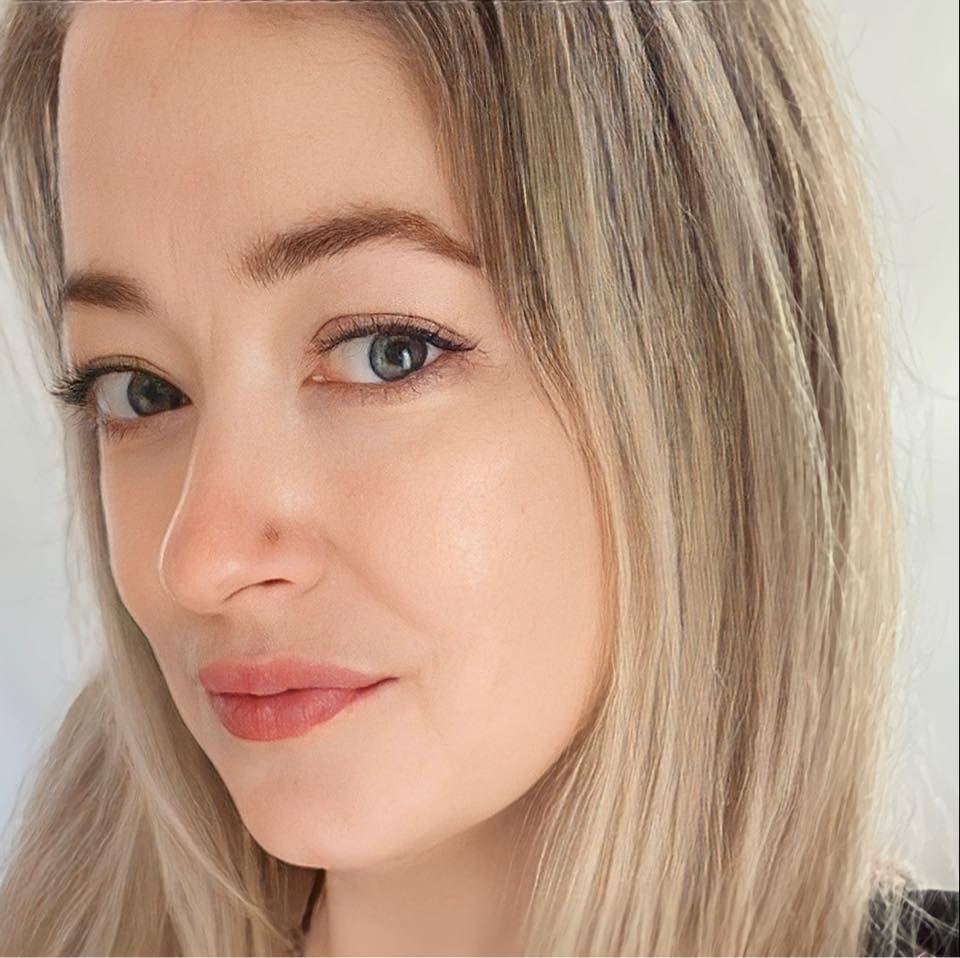
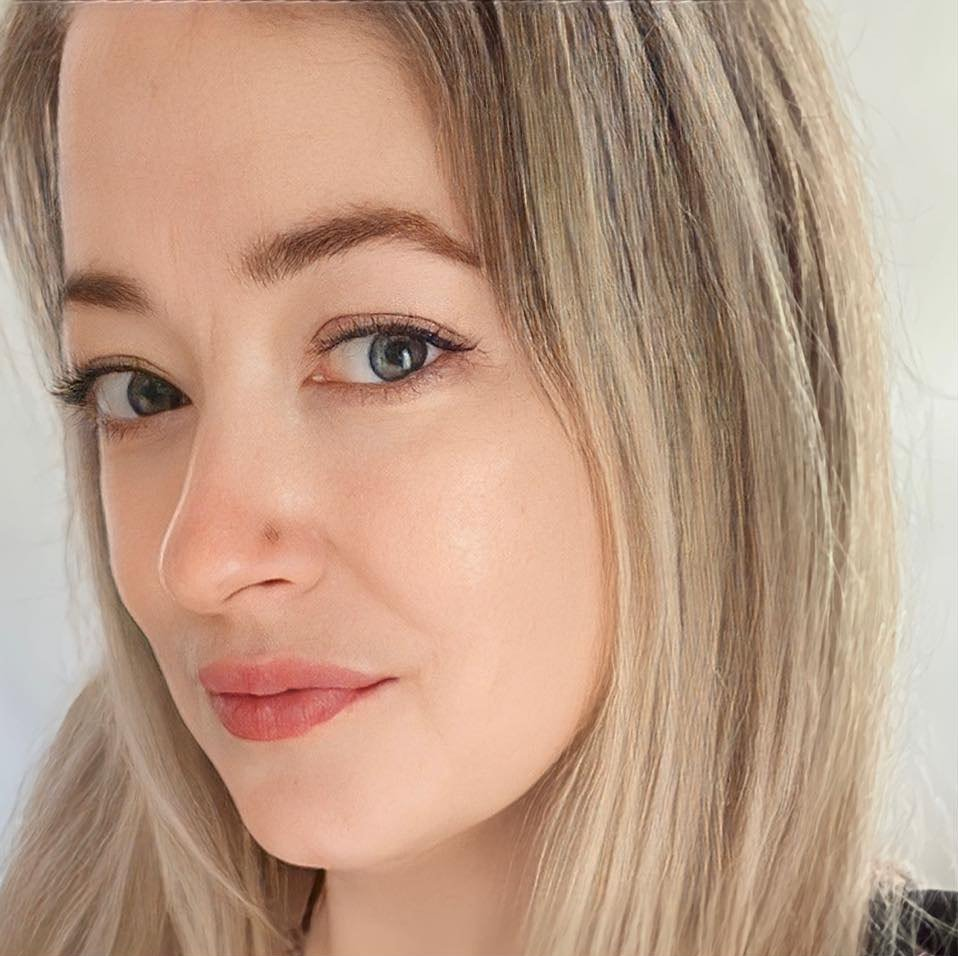
Updated form section. And edited image to remove artifacts.

diff --git a/index.html b/index.html
@@ -35,7 +35,7 @@
 
     <style>
         body { background-color: #F9F9F9; color: #333333; overflow-x: hidden; scroll-behavior: smooth; }
-        .hero-overlay { background: rgba(0, 0, 0, 0.3); }
+        .hero-overlay { background: rgba(0, 0, 0, 0.4); }
         .btn-transition { transition: all 0.3s ease-in-out; }
         .profile-photo { filter: grayscale(100%); transition: filter 0.5s ease; }
         .profile-photo:hover { filter: grayscale(0%); }
@@ -46,6 +46,9 @@
             background-color: #F9F9F9;
             color: #004B49;
         }
+        
+        /* Smooth scrolling adjustment for fixed nav */
+        section { scroll-margin-top: 80px; }
     </style>
 </head>
 <body x-data="{ mobileMenuOpen: false, disclosureOpen: false, waiverAccepted: false }">
@@ -58,12 +61,12 @@
                     <span class="font-serif text-2xl tracking-tighter text-oceanteal font-bold uppercase">And She Awoke</span>
                 </div>
                 
-                <div class="hidden md:flex space-x-8 items-center font-sans text-xs tracking-widest uppercase font-semibold">
-                    <a href="#philosophy" class="hover:text-oceanteal transition">Philosophy</a>
-                    <a href="#science" class="hover:text-oceanteal transition">Science</a>
-                    <a href="#about" class="hover:text-oceanteal transition">About</a>
-                    <a href="#faq" class="hover:text-oceanteal transition">FAQ</a>
-                    <a href="#exchange" class="bg-oceanteal text-white px-6 py-3 btn-transition hover:bg-black uppercase tracking-widest">Initiate</a>
+                <div class="hidden md:flex space-x-8 items-center font-sans text-[10px] tracking-[0.2em] uppercase font-bold">
+                    <a href="#philosophy" class="hover:text-oceanteal transition duration-300">Philosophy</a>
+                    <a href="#science" class="hover:text-oceanteal transition duration-300">Science</a>
+                    <a href="#about" class="hover:text-oceanteal transition duration-300">About</a>
+                    <a href="#faq" class="hover:text-oceanteal transition duration-300">FAQ</a>
+                    <a href="#exchange" class="bg-oceanteal text-white px-6 py-3 btn-transition hover:bg-black uppercase">Initiate</a>
                 </div>
 
                 <div class="md:hidden">
@@ -75,7 +78,7 @@
             </div>
         </div>
 
-        <div x-show="mobileMenuOpen" x-transition class="md:hidden bg-saltwhite p-6 space-y-4 font-sans text-center border-t border-gray-100 shadow-xl">
+        <div x-show="mobileMenuOpen" x-transition x-cloak class="md:hidden bg-saltwhite p-6 space-y-4 font-sans text-[10px] tracking-[0.2em] uppercase font-bold text-center border-t border-gray-100 shadow-xl">
             <a href="#philosophy" @click="mobileMenuOpen = false" class="block py-2">Philosophy</a>
             <a href="#science" @click="mobileMenuOpen = false" class="block py-2">Science</a>
             <a href="#about" @click="mobileMenuOpen = false" class="block py-2">About</a>
@@ -84,7 +87,7 @@
         </div>
     </nav>
 
-    <!-- 1. Hero Section (Restored Beach Background) -->
+    <!-- 1. Hero Section -->
     <header class="relative h-screen flex items-center justify-center overflow-hidden">
         <div class="absolute inset-0 z-0">
             <img src="https://images.unsplash.com/photo-1505118380757-91f5f5632de0?auto=format&fit=crop&q=80&w=2000" alt="Newport Coast Horizon" class="w-full h-full object-cover">
@@ -92,23 +95,23 @@
         </div>
         
         <div class="relative z-10 text-center px-6 max-w-4xl">
-            <h1 class="font-serif text-5xl md:text-7xl text-white mb-6">Beyond Healing. <br><span class="italic">A Return to Balance.</span></h1>
+            <h1 class="font-serif text-5xl md:text-7xl text-white mb-6">Beyond Healing. <br><span class="italic font-light">A Return to Balance.</span></h1>
             <p class="font-sans text-lg md:text-xl text-white mb-10 font-light leading-relaxed">
                 Reconnective Healing is not a treatment. It is an invitation to interact with a spectrum of energy, light, and information that has always been yours.
             </p>
-            <a href="#exchange" class="inline-block bg-oceanteal text-white font-sans uppercase tracking-widest px-10 py-5 text-sm font-bold btn-transition hover:bg-white hover:text-oceanteal">
+            <a href="#exchange" class="inline-block bg-oceanteal text-white font-sans uppercase tracking-[0.2em] px-10 py-5 text-xs font-bold btn-transition hover:bg-white hover:text-oceanteal shadow-xl">
                 Initiate an Exchange
             </a>
         </div>
     </header>
 
     <!-- 2. Philosophy Section -->
-    <section id="philosophy" class="py-24 md:py-32 bg-saltwhite px-6 border-b border-gray-100">
+    <section id="philosophy" class="py-24 bg-saltwhite px-6 border-b border-gray-100">
         <div class="max-w-3xl mx-auto text-center">
-            <h2 class="font-serif text-3xl md:text-4xl mb-12 italic">"Healing is a choice. A remembering."</h2>
+            <h2 class="font-serif text-4xl md:text-5xl mb-12 italic text-oceanteal">"Healing is a choice. A remembering."</h2>
             <div class="font-sans text-lg leading-relaxed space-y-6 text-charcoal/80 font-light">
                 <p>We spend our lives searching for what is "broken," trying to fix what we think is lost. But the frequencies of Reconnective Healing suggest a different truth: You are already whole.</p>
-                <p>You have simply become disconnected from the grid of the universe. We step into the field and allow the frequencies to reorganize the body, the mind, and the spirit.</p>
+                <p>You have simply become disconnected from the grid of the universe. We step into the field and allow the frequencies to reorganize the body, the mind, and the spirit back to its natural resonance.</p>
             </div>
         </div>
     </section>
@@ -118,24 +121,24 @@
         <div class="max-w-7xl mx-auto">
             <div class="grid md:grid-cols-3 gap-12 text-center">
                 <div class="p-8 group">
-                    <div class="w-16 h-16 bg-oceanteal mx-auto mb-6 flex items-center justify-center btn-transition group-hover:rotate-12">
+                    <div class="w-16 h-16 bg-oceanteal mx-auto mb-6 flex items-center justify-center btn-transition group-hover:rotate-6">
                         <svg class="w-8 h-8 text-white" fill="none" stroke="currentColor" viewBox="0 0 24 24"><path d="M13 10V3L4 14h7v7l9-11h-7z" stroke-width="2" stroke-linecap="round" stroke-linejoin="round"/></svg>
                     </div>
-                    <h3 class="font-serif text-2xl mb-4 uppercase tracking-tighter">Energy</h3>
+                    <h3 class="font-serif text-2xl mb-4 uppercase tracking-tighter text-charcoal">Energy</h3>
                     <p class="font-sans text-sm text-charcoal/70 leading-relaxed font-light">The tangible vibration that sustains our physical form and binds us to the material world.</p>
                 </div>
                 <div class="p-8 group">
-                    <div class="w-16 h-16 bg-oceanteal mx-auto mb-6 flex items-center justify-center btn-transition group-hover:rotate-12">
+                    <div class="w-16 h-16 bg-oceanteal mx-auto mb-6 flex items-center justify-center btn-transition group-hover:rotate-6">
                         <svg class="w-8 h-8 text-white" fill="none" stroke="currentColor" viewBox="0 0 24 24"><path d="M12 3v1m0 16v1m9-9h-1M4 12H3m15.364-6.364l-.707.707M6.343 17.657l-.707.707m12.728 0l-.707-.707M6.343 6.343l-.707-.707" stroke-width="2" stroke-linecap="round" stroke-linejoin="round"/></svg>
                     </div>
-                    <h3 class="font-serif text-2xl mb-4 uppercase tracking-tighter">Light</h3>
+                    <h3 class="font-serif text-2xl mb-4 uppercase tracking-tighter text-charcoal">Light</h3>
                     <p class="font-sans text-sm text-charcoal/70 leading-relaxed font-light">The resonance and communication between our cells and the cosmic intelligence.</p>
                 </div>
                 <div class="p-8 group">
-                    <div class="w-16 h-16 bg-oceanteal mx-auto mb-6 flex items-center justify-center btn-transition group-hover:rotate-12">
+                    <div class="w-16 h-16 bg-oceanteal mx-auto mb-6 flex items-center justify-center btn-transition group-hover:rotate-6">
                         <svg class="w-8 h-8 text-white" fill="none" stroke="currentColor" viewBox="0 0 24 24"><path d="M9 12h6m-6 4h6m2 5H7a2 2 0 01-2-2V5a2 2 0 012-2h5.586a1 1 0 01.707.293l5.414 5.414a1 1 0 01.293.707V19a2 2 0 01-2 2z" stroke-width="2" stroke-linecap="round" stroke-linejoin="round"/></svg>
                     </div>
-                    <h3 class="font-serif text-2xl mb-4 uppercase tracking-tighter">Information</h3>
+                    <h3 class="font-serif text-2xl mb-4 uppercase tracking-tighter text-charcoal">Information</h3>
                     <p class="font-sans text-sm text-charcoal/70 leading-relaxed font-light">The intelligence that returns our complex systems back to their natural state of harmony.</p>
                 </div>
             </div>
@@ -145,21 +148,21 @@
     <!-- 4. Science Section -->
     <section id="science" class="py-24 bg-charcoal text-white px-6">
         <div class="max-w-4xl mx-auto text-center">
-            <h2 class="font-serif text-3xl md:text-4xl mb-12 italic text-sand">Observed by Science. Felt by the Soul.</h2>
-            <div class="font-sans text-lg leading-relaxed space-y-8 font-light text-gray-300 text-center">
+            <h2 class="font-serif text-4xl md:text-5xl mb-12 italic text-sand">Observed by Science. Felt by the Soul.</h2>
+            <div class="font-sans text-lg leading-relaxed space-y-8 font-light text-gray-300">
                 <p>This isn’t "faith" healing. It is the physics of the human biofield. Researchers from Stanford, Harvard, and the University of Arizona have documented the effects of these frequencies.</p>
                 <div class="grid md:grid-cols-3 gap-8 pt-8 text-left">
                     <div class="border-l border-oceanteal pl-4">
-                        <span class="block font-bold text-white mb-2 uppercase text-xs tracking-widest">Dr. William Tiller</span>
-                        <p class="text-[10px] leading-relaxed uppercase">Stanford Professor Emeritus noted "negative entropy" in the space during these sessions, stabilizing the environment.</p>
+                        <span class="block font-bold text-white mb-2 uppercase text-[10px] tracking-[0.2em]">Dr. William Tiller</span>
+                        <p class="text-[10px] leading-relaxed uppercase opacity-70">Stanford Professor Emeritus noted "negative entropy" in the space during sessions, stabilizing the environment.</p>
                     </div>
                     <div class="border-l border-oceanteal pl-4">
-                        <span class="block font-bold text-white mb-2 uppercase text-xs tracking-widest">Dr. Gary Schwartz</span>
-                        <p class="text-[10px] leading-relaxed uppercase">Documented significant life-extension and heightened chlorophyll levels in plants interacting with the frequencies.</p>
+                        <span class="block font-bold text-white mb-2 uppercase text-[10px] tracking-[0.2em]">Dr. Gary Schwartz</span>
+                        <p class="text-[10px] leading-relaxed uppercase opacity-70">Documented significant life-extension and heightened chlorophyll levels in plants interacting with the frequencies.</p>
                     </div>
                     <div class="border-l border-oceanteal pl-4">
-                        <span class="block font-bold text-white mb-2 uppercase text-xs tracking-widest">Dr. Konstantin Korotkov</span>
-                        <p class="text-[10px] leading-relaxed uppercase">Observed dramatic, coherent shifts in the autonomic nervous system and the human biofield using EPC technology.</p>
+                        <span class="block font-bold text-white mb-2 uppercase text-[10px] tracking-[0.2em]">Dr. Konstantin Korotkov</span>
+                        <p class="text-[10px] leading-relaxed uppercase opacity-70">Observed dramatic, coherent shifts in the autonomic nervous system and the biofield using EPC technology.</p>
                     </div>
                 </div>
             </div>
@@ -167,20 +170,20 @@
     </section>
 
     <!-- 5. About Jolene Section -->
-    <section id="about" class="py-24 bg-saltwhite px-6">
+    <section id="about" class="py-24 bg-saltwhite px-6 border-b border-gray-100">
         <div class="max-w-6xl mx-auto grid md:grid-cols-2 gap-16 items-center">
             <div>
-                <img src="./jolene-face.jpg" alt="Jolene Powell" class="profile-photo shadow-2xl w-full">
+                <img src="./jolene-face.jpg" alt="Jolene Powell" class="profile-photo shadow-2xl w-full border-8 border-white">
             </div>
             <div>
-                <h2 class="font-serif text-4xl mb-8 italic">Meeting the Frequencies.</h2>
+                <h2 class="font-serif text-4xl md:text-5xl mb-8 italic text-oceanteal">Meeting the Frequencies.</h2>
                 <div class="font-sans text-charcoal/80 space-y-6 leading-relaxed font-light">
                     <p>My journey led me to Virginia Beach, where I first experienced the profound shift of Eric Pearl’s work. I walked into that room as one person and emerged as another—the seeker finally stopped searching.</p>
                     <p><strong class="font-semibold text-charcoal">"And She Awoke"</strong> is more than a name—it is the description of what happens when you finally stop trying to "fix" yourself and start allowing the universe to recognize you again.</p>
                     <p>As a Foundational Practitioner, I do not hold the power; I hold the space. I am here to facilitate that moment where you awaken to your own inherent balance.</p>
                     <div class="pt-6">
                         <span class="font-serif italic text-3xl text-oceanteal">Jolene Powell</span>
-                        <p class="text-xs uppercase tracking-widest font-bold mt-2 text-charcoal/60">Foundational Practitioner™</p>
+                        <p class="text-[10px] uppercase tracking-[0.2em] font-bold mt-2 text-charcoal/60">Foundational Practitioner™</p>
                     </div>
                 </div>
             </div>
@@ -190,30 +193,30 @@
     <!-- 6. FAQ Section -->
     <section id="faq" class="py-24 bg-white px-6">
         <div class="max-w-3xl mx-auto">
-            <h2 class="font-serif text-3xl mb-12 text-center italic text-oceanteal">Common Questions</h2>
+            <h2 class="font-serif text-4xl md:text-5xl mb-12 text-center italic text-oceanteal">Common Questions</h2>
             <div class="space-y-12 font-sans">
                 <div>
-                    <h4 class="font-bold mb-2 uppercase text-xs tracking-widest text-oceanteal">What do I have to do?</h4>
+                    <h4 class="font-bold mb-2 uppercase text-[10px] tracking-[0.2em] text-oceanteal">What do I have to do?</h4>
                     <p class="text-sm text-charcoal/70 font-light leading-relaxed">Nothing. Just notice. Let go of the need to pray, visualize, or guide the session. Expectation is the only barrier to the intelligence of the frequencies.</p>
                 </div>
                 <div>
-                    <h4 class="font-bold mb-2 uppercase text-xs tracking-widest text-oceanteal">How many sessions do I need?</h4>
+                    <h4 class="font-bold mb-2 uppercase text-[10px] tracking-[0.2em] text-oceanteal">How many sessions do I need?</h4>
                     <p class="text-sm text-charcoal/70 font-light leading-relaxed">One to three sessions are generally recommended. This is not a weekly maintenance therapy; it is a catalyst for your own return to balance.</p>
                 </div>
                 <div>
-                    <h4 class="font-bold mb-2 uppercase text-xs tracking-widest text-oceanteal">Can it cure specific conditions?</h4>
-                    <p class="text-sm text-charcoal/70 font-light leading-relaxed">We do not treat symptoms. We return the person to balance. Often, when balance returns, the symptom no longer has a reason to exist in the body or mind.</p>
+                    <h4 class="font-bold mb-2 uppercase text-[10px] tracking-[0.2em] text-oceanteal">Can it cure specific conditions?</h4>
+                    <p class="text-sm text-charcoal/70 font-light leading-relaxed">We do not treat symptoms. We return the person to balance. Often, when balance returns, the symptom no longer has a reason to exist.</p>
                 </div>
             </div>
         </div>
     </section>
 
-    <!-- 7. The Exchange (Last Section Above Footer) -->
+    <!-- 7. The Exchange (Final Form Section) -->
     <section id="exchange" class="py-24 bg-sand px-6 border-t border-gray-100">
         <div class="max-w-7xl mx-auto">
             <div class="text-center mb-20">
-                <h2 class="font-serif text-4xl md:text-5xl mb-4 italic">The Exchange</h2>
-                <p class="font-sans text-charcoal/60 uppercase tracking-widest text-xs font-bold">Request a session. Coordinate personally.</p>
+                <h2 class="font-serif text-4xl md:text-5xl mb-4 italic text-oceanteal">The Exchange</h2>
+                <p class="font-sans text-charcoal/60 uppercase tracking-[0.2em] text-[10px] font-bold">Initiate a connection. Coordinate via SMS.</p>
             </div>
 
             <div class="grid lg:grid-cols-12 gap-16 items-start">
@@ -221,76 +224,87 @@
                 <!-- Left: Modality Descriptions -->
                 <div class="lg:col-span-5 space-y-12">
                     <div>
-                        <span class="font-sans text-[10px] uppercase tracking-[0.2em] font-bold text-oceanteal mb-4 block">Interaction Modes</span>
-                        <div class="space-y-10">
+                        <span class="font-sans text-[10px] uppercase tracking-[0.2em] font-bold text-oceanteal mb-4 block text-center lg:text-left">Interaction Modes</span>
+                        <div class="space-y-10 text-center lg:text-left">
                             <div>
-                                <h3 class="font-serif text-2xl mb-3 italic">In-Person (Newport, RI)</h3>
+                                <h3 class="font-serif text-2xl mb-3 italic text-charcoal">In-Person (Newport, RI)</h3>
                                 <p class="font-sans text-sm text-charcoal/70 leading-relaxed font-light">
-                                    Experience the frequencies in my quiet coastal studio. You will relax on a massage table, fully clothed. There is no physical touch or complex ritual—only the facilitation of the interaction between you and the field.
+                                    Facilitated in my quiet coastal studio. No physical touch or ritual—only the facilitation of the interaction between you and the field.
                                 </p>
                             </div>
-                            <div class="h-px bg-charcoal/10 w-24"></div>
+                            <div class="h-px bg-charcoal/10 w-24 mx-auto lg:mx-0"></div>
                             <div>
-                                <h3 class="font-serif text-2xl mb-3 italic">Distance Healing (Global)</h3>
+                                <h3 class="font-serif text-2xl mb-3 italic text-charcoal">Distance Healing (Global)</h3>
                                 <p class="font-sans text-sm text-charcoal/70 leading-relaxed font-light">
-                                    Time and space are human constructs; the frequencies are non-local. We schedule a window for you to lie down at home while I facilitate the session. The results are tangible and identical to in-person sessions.
+                                    Time and space are human constructs; frequencies are non-local. We schedule a window for you to lie down at home while I facilitate.
                                 </p>
                             </div>
                         </div>
                     </div>
 
                     <div class="bg-saltwhite/50 p-8 border border-charcoal/5">
-                        <h4 class="font-sans text-[10px] uppercase tracking-widest font-bold mb-4">What to Expect</h4>
-                        <p class="font-sans text-xs text-charcoal/60 leading-relaxed italic">
-                            Once you submit your request, I respond via personal text message to coordinate our specific time and discuss any preliminary questions you may have.
+                        <h4 class="font-sans text-[10px] uppercase tracking-[0.2em] font-bold mb-4 text-center lg:text-left text-oceanteal">Response Time</h4>
+                        <p class="font-sans text-xs text-charcoal/60 leading-relaxed italic text-center lg:text-left">
+                            Once you submit, I am notified immediately via text. I will reach out personally to your mobile phone to discuss details and timing.
                         </p>
                     </div>
                 </div>
 
-                <!-- Right: Exchange Form -->
-                <div class="lg:col-span-7 bg-white p-8 md:p-12 shadow-sm">
-                    <form name="session-request" method="POST" data-netlify="true" class="space-y-8">
+                <!-- Right: Exchange Form (Bot Protected) -->
+                <div class="lg:col-span-7 bg-white p-8 md:p-12 shadow-2xl border border-gray-100">
+                    <form name="session-request" method="POST" data-netlify="true" netlify-honeypot="bot-field" class="space-y-8">
                         <input type="hidden" name="form-name" value="session-request" />
+                        
+                        <!-- BOT FIELD -->
+                        <p class="hidden">
+                            <label>Don’t fill this out if you're human: <input name="bot-field" /></label>
+                        </p>
                         
                         <div class="grid md:grid-cols-2 gap-8">
                             <div>
-                                <label class="block font-sans text-[10px] uppercase tracking-widest font-bold mb-2 text-oceanteal">Full Name</label>
+                                <label class="block font-sans text-[10px] uppercase tracking-[0.2em] font-bold mb-2 text-oceanteal">Full Name</label>
                                 <input type="text" name="name" required class="w-full bg-saltwhite border-b border-gray-200 py-3 px-4 focus:outline-none focus:border-oceanteal font-sans text-sm">
                             </div>
                             <div>
-                                <label class="block font-sans text-[10px] uppercase tracking-widest font-bold mb-2 text-oceanteal">Mobile Phone</label>
-                                <input type="tel" name="phone" required placeholder="For SMS coordination" class="w-full bg-saltwhite border-b border-gray-200 py-3 px-4 focus:outline-none focus:border-oceanteal font-sans text-sm">
+                                <label class="block font-sans text-[10px] uppercase tracking-[0.2em] font-bold mb-2 text-oceanteal">Mobile Phone</label>
+                                <input type="tel" name="phone" required placeholder="For personal SMS coordination" class="w-full bg-saltwhite border-b border-gray-200 py-3 px-4 focus:outline-none focus:border-oceanteal font-sans text-sm">
                             </div>
                         </div>
 
                         <div>
-                            <label class="block font-sans text-[10px] uppercase tracking-widest font-bold mb-4 text-oceanteal">Preferred Session Type</label>
-                            <div class="grid grid-cols-2 gap-4">
+                            <label class="block font-sans text-[10px] uppercase tracking-[0.2em] font-bold mb-4 text-oceanteal">Preferred Intent</label>
+                            <div class="grid grid-cols-3 gap-2">
                                 <div>
                                     <input type="radio" name="type" id="type-inperson" value="In-Person" class="hidden session-radio" checked>
-                                    <label for="type-inperson" class="block text-center border border-gray-200 py-4 px-2 cursor-pointer font-sans text-[10px] uppercase tracking-widest font-bold btn-transition">
+                                    <label for="type-inperson" class="block text-center border border-gray-200 py-4 px-1 cursor-pointer font-sans text-[9px] uppercase tracking-widest font-bold btn-transition">
                                         In-Person
                                     </label>
                                 </div>
                                 <div>
                                     <input type="radio" name="type" id="type-distance" value="Distance" class="hidden session-radio">
-                                    <label for="type-distance" class="block text-center border border-gray-200 py-4 px-2 cursor-pointer font-sans text-[10px] uppercase tracking-widest font-bold btn-transition">
+                                    <label for="type-distance" class="block text-center border border-gray-200 py-4 px-1 cursor-pointer font-sans text-[9px] uppercase tracking-widest font-bold btn-transition">
                                         Distance
+                                    </label>
+                                </div>
+                                <div>
+                                    <input type="radio" name="type" id="type-inquiry" value="Inquiry" class="hidden session-radio">
+                                    <label for="type-inquiry" class="block text-center border border-gray-200 py-4 px-1 cursor-pointer font-sans text-[9px] uppercase tracking-widest font-bold btn-transition">
+                                        Inquiry
                                     </label>
                                 </div>
                             </div>
                         </div>
 
                         <div>
-                            <label class="block font-sans text-[10px] uppercase tracking-widest font-bold mb-2 text-oceanteal">Your Intent / Notes (Optional)</label>
-                            <textarea name="message" rows="3" placeholder="Briefly share what draws you to this work..." class="w-full bg-saltwhite border-b border-gray-200 py-3 px-4 focus:outline-none focus:border-oceanteal font-sans text-sm"></textarea>
+                            <label class="block font-sans text-[10px] uppercase tracking-[0.2em] font-bold mb-2 text-oceanteal">Notes</label>
+                            <textarea name="message" rows="3" placeholder="Share a few words about your journey..." class="w-full bg-saltwhite border-b border-gray-200 py-3 px-4 focus:outline-none focus:border-oceanteal font-sans text-sm"></textarea>
                         </div>
 
                         <!-- WAIVER GATE -->
                         <div class="flex items-start space-x-4 pt-4 border-t border-gray-100">
                             <input type="checkbox" id="waiver_check" @change="waiverAccepted = $event.target.checked" class="mt-1 accent-oceanteal h-4 w-4">
                             <label for="waiver_check" class="font-sans text-[11px] text-charcoal/70 leading-relaxed">
-                                I have read and agree to the <button type="button" @click="disclosureOpen = true" class="text-oceanteal underline font-bold">Wellness Disclosure & Waiver</button>.
+                                I have read the <button type="button" @click="disclosureOpen = true" class="text-oceanteal underline font-bold">Wellness Disclosure</button>. I understand Jolene facilitates an energetic return to balance.
                             </label>
                         </div>
 
@@ -299,11 +313,8 @@
                                 :disabled="!waiverAccepted"
                                 :class="waiverAccepted ? 'bg-oceanteal hover:bg-black cursor-pointer shadow-lg' : 'bg-gray-200 cursor-not-allowed text-gray-400'"
                                 class="w-full text-white font-sans uppercase tracking-[0.2em] py-5 text-xs font-bold btn-transition">
-                                Send Request to Jolene
+                                Initiate Exchange
                             </button>
-                            <p x-show="!waiverAccepted" class="text-[9px] text-center mt-4 text-charcoal/40 uppercase tracking-widest">
-                                Agreement is required to initiate an exchange.
-                            </p>
                         </div>
                     </form>
                 </div>
@@ -315,32 +326,32 @@
     <footer class="bg-saltwhite pt-20 pb-10 border-t border-gray-200 px-6">
         <div class="max-w-7xl mx-auto">
             <div class="flex flex-col md:flex-row justify-between items-start md:items-center border-b border-gray-200 pb-12 mb-12">
-                <div class="mb-8 md:mb-0">
+                <div class="mb-8 md:mb-0 text-center md:text-left">
                     <span class="font-serif text-2xl text-oceanteal font-bold uppercase tracking-tighter">And She Awoke</span>
-                    <p class="text-[10px] tracking-widest mt-2 uppercase font-semibold text-charcoal/50">Newport, RI | Available Globally</p>
+                    <p class="text-[10px] tracking-[0.2em] mt-2 uppercase font-bold text-charcoal/50">Newport, RI | Available Globally</p>
                 </div>
-                <div class="flex space-x-6 text-[10px] uppercase font-bold tracking-widest">
-                    <a href="#philosophy" class="hover:text-oceanteal">Philosophy</a>
-                    <a href="#science" class="hover:text-oceanteal">Science</a>
-                    <a href="#about" class="hover:text-oceanteal">About</a>
+                <div class="flex space-x-6 text-[10px] uppercase font-bold tracking-[0.2em] justify-center md:justify-end">
+                    <a href="#philosophy" class="hover:text-oceanteal transition duration-300">Philosophy</a>
+                    <a href="#science" class="hover:text-oceanteal transition duration-300">Science</a>
+                    <a href="#about" class="hover:text-oceanteal transition duration-300">About</a>
                 </div>
             </div>
 
-            <div class="text-[9px] text-gray-400 space-y-4 leading-relaxed max-w-4xl uppercase tracking-[0.1em]">
-                <p><strong>Legal Disclaimer:</strong> Jolene Powell and "And She Awoke" make no claims, promises, or guarantees and are neither diagnosing nor treating specific health challenges. Reconnective Healing® is intended to be a supplement to, not a replacement for, professional medical or psychological care. You are solely responsible for your own medical treatment and care.</p>
+            <div class="text-[9px] text-gray-400 space-y-4 leading-relaxed max-w-4xl uppercase tracking-[0.1em] text-center md:text-left">
+                <p><strong>Legal Disclaimer:</strong> Jolene Powell and "And She Awoke" make no claims, promises, or guarantees and are neither diagnosing nor treating specific health challenges. Reconnective Healing® is intended to be a supplement to, not a replacement for, professional medical or psychological care.</p>
                 <p>Reconnective Healing® and The Reconnection® are registered trademarks of The Reconnection, LLC.</p>
-                <p class="pt-6 font-bold">&copy; 2023 And She Awoke. All Rights Reserved.</p>
+                <p class="pt-6 font-bold text-charcoal/40 uppercase tracking-[0.2em]">&copy; 2025 And She Awoke. All Rights Reserved.</p>
             </div>
         </div>
     </footer>
 
     <!-- MODAL: WELLNESS DISCLOSURE & WAIVER -->
-    <div x-show="disclosureOpen" x-cloak class="fixed inset-0 z-[100] flex items-center justify-center px-6 overflow-y-auto bg-charcoal/90 backdrop-blur-sm" @click.away="disclosureOpen = false">
-        <div class="bg-saltwhite max-w-2xl w-full p-8 md:p-12 my-12 relative shadow-2xl overflow-y-auto max-h-[90vh]">
-            <button @click="disclosureOpen = false" class="absolute top-4 right-4 text-charcoal hover:text-oceanteal">
+    <div x-show="disclosureOpen" x-cloak x-transition class="fixed inset-0 z-[100] flex items-center justify-center px-6 overflow-y-auto bg-charcoal/90 backdrop-blur-sm" @click.away="disclosureOpen = false">
+        <div class="bg-saltwhite max-w-2xl w-full p-8 md:p-12 my-12 relative shadow-2xl overflow-y-auto max-h-[90vh] border border-gray-200">
+            <button @click="disclosureOpen = false" class="absolute top-4 right-4 text-charcoal hover:text-oceanteal transition duration-300">
                 <svg class="w-6 h-6" fill="none" stroke="currentColor" viewBox="0 0 24 24"><path stroke-linecap="round" stroke-linejoin="round" stroke-width="2" d="M6 18L18 6M6 6l12 12"/></svg>
             </button>
-            <h2 class="font-serif text-3xl mb-8 italic text-oceanteal text-center">Wellness Disclosure & Waiver</h2>
+            <h2 class="font-serif text-3xl md:text-4xl mb-8 italic text-oceanteal text-center">Wellness Disclosure & Waiver</h2>
             <div class="font-sans text-sm text-charcoal/80 space-y-6 leading-relaxed font-light">
                 <p><strong>Nature of the Work:</strong> I understand that Reconnective Healing® is a form of energetic interaction that facilitates a return to balance. It involves no physical touch, medical diagnosis, or prescription.</p>
                 <p><strong>No Medical Warranty:</strong> Jolene Powell is not a licensed medical doctor. She makes no claims regarding the cure of specific medical conditions.</p>
@@ -348,7 +359,7 @@
                 <p><strong>Release of Liability:</strong> By submitting my request, I hereby release Jolene Powell and 'And She Awoke' from any and all liability.</p>
             </div>
             <div class="mt-12 text-center">
-                <button @click="disclosureOpen = false" class="bg-oceanteal text-white px-10 py-4 font-sans text-xs font-bold uppercase tracking-widest btn-transition hover:bg-black">I Understand & Accept</button>
+                <button @click="disclosureOpen = false" class="bg-oceanteal text-white px-10 py-4 font-sans text-[10px] uppercase tracking-[0.2em] font-bold btn-transition hover:bg-black shadow-lg">I Understand & Accept</button>
             </div>
         </div>
     </div>
